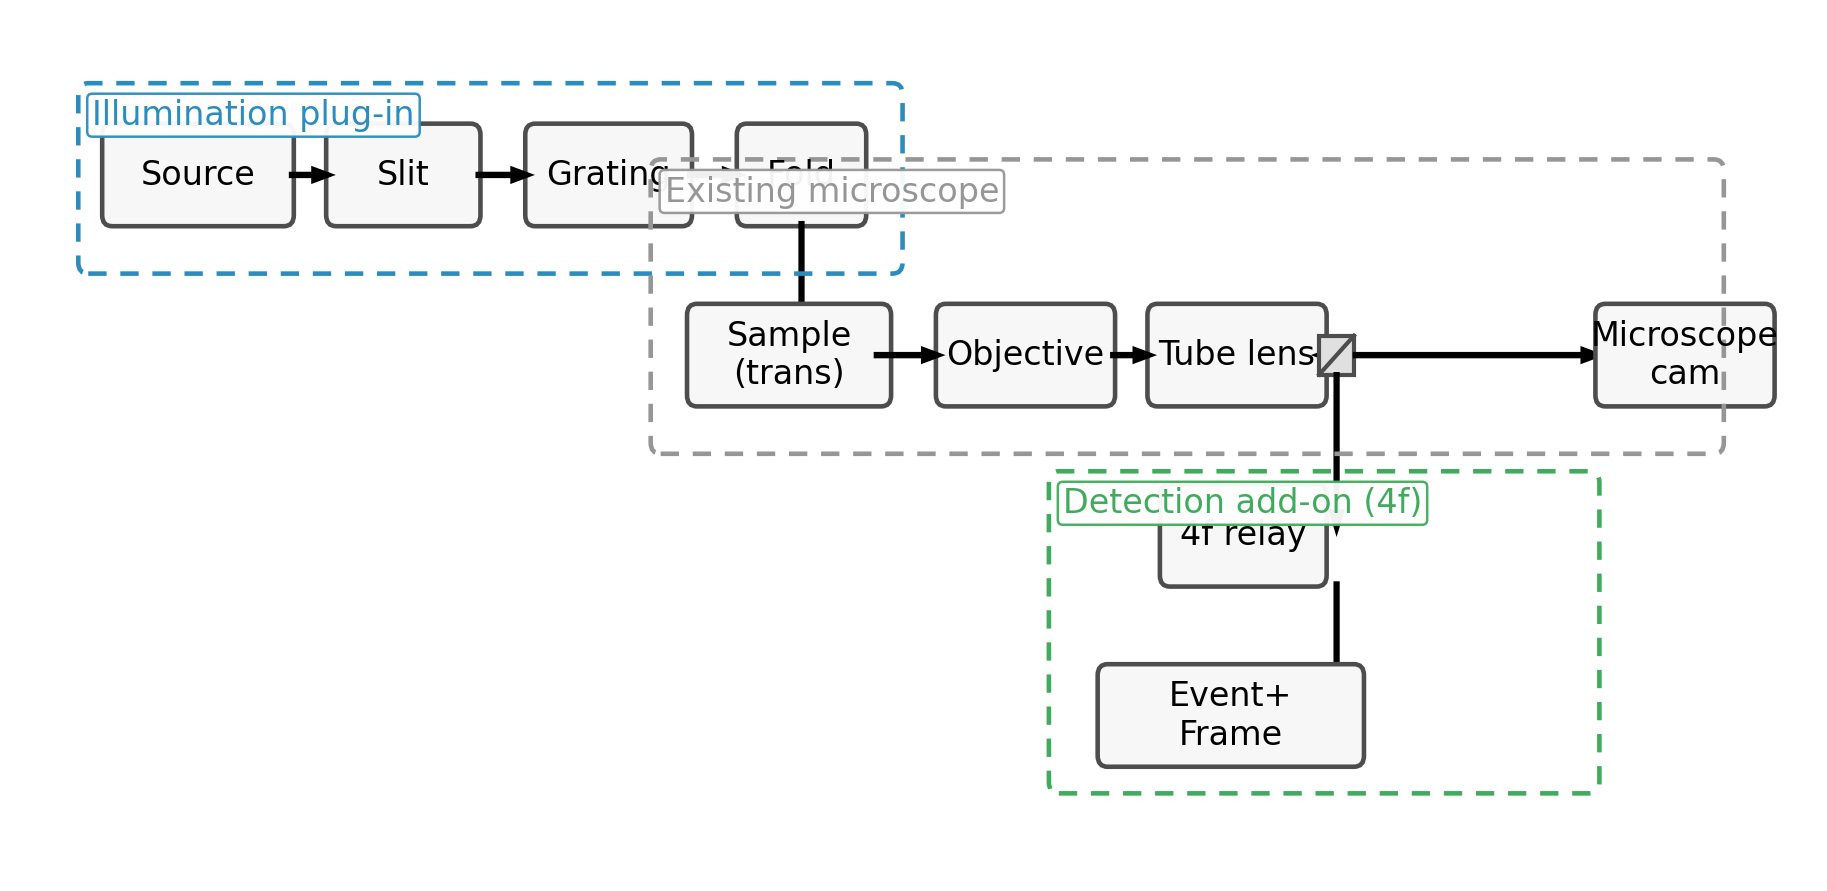
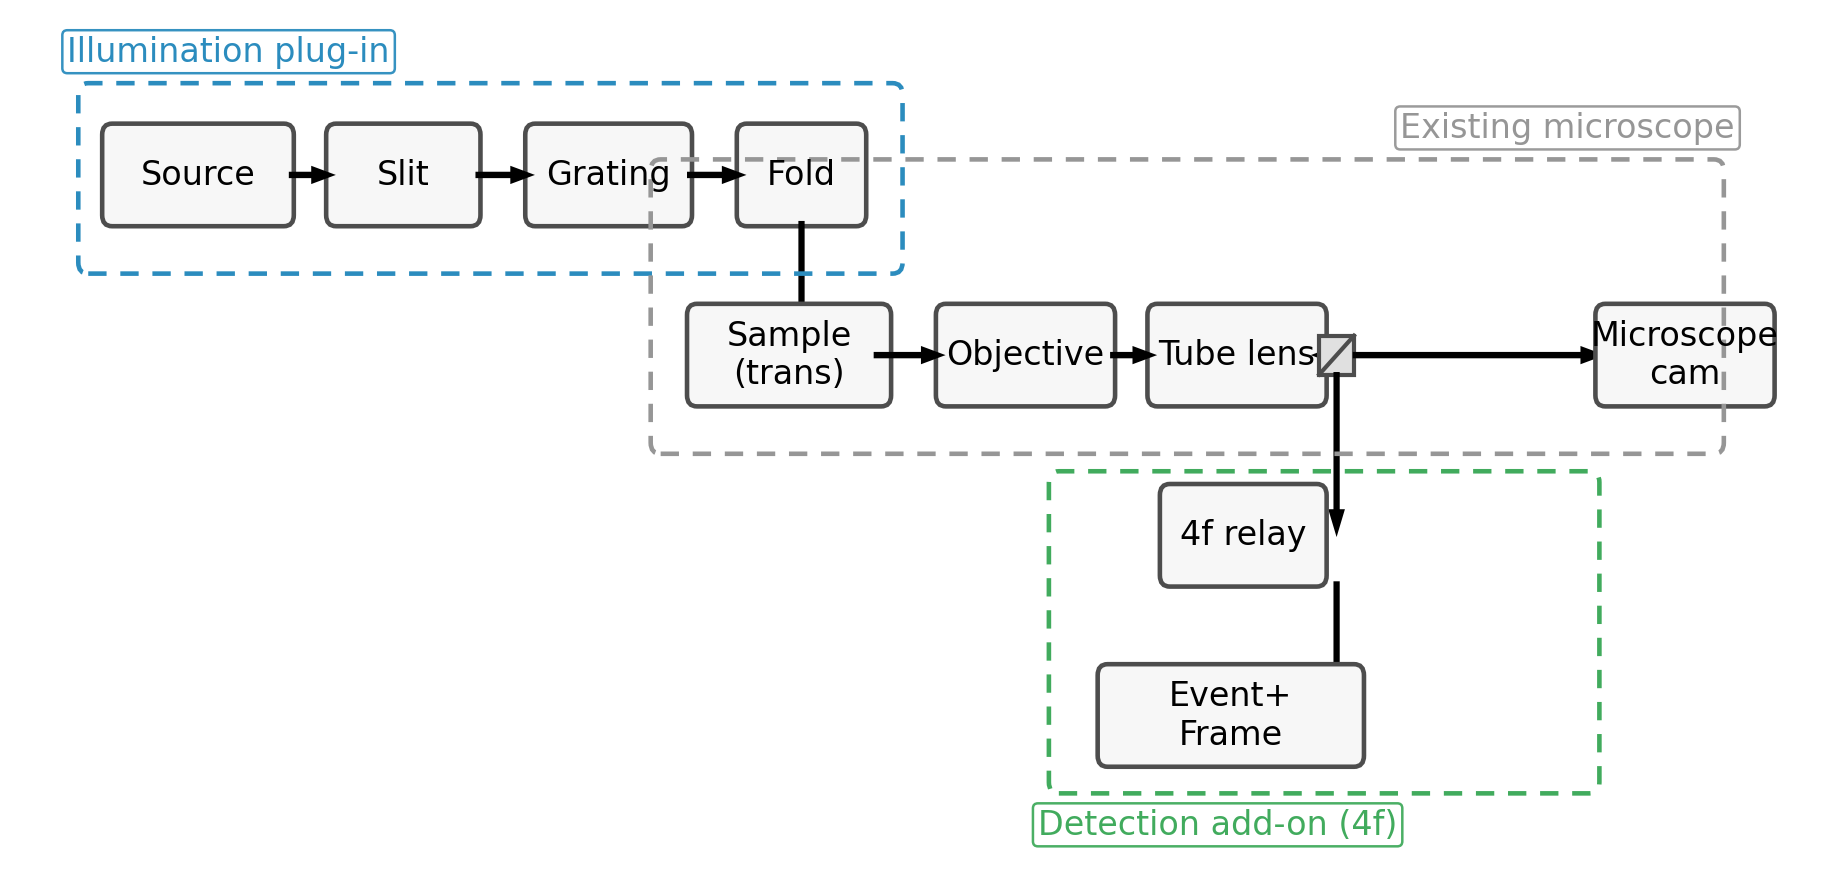
style(figure1): place plug-in labels outside (illum: top-left; microscope: top-right; detection: bottom-left); keep clean spacing and regenerate PDF

diff --git a/publication_code/figure01_system_overview.py b/publication_code/figure01_system_overview.py
@@ -43,16 +43,30 @@ def add_arrow(ax, x0, y0, x1, y1, lw=1.2, color="#000000"):
                             linewidth=lw, edgecolor=color, facecolor=color))
 
 
-def add_plugin_box(ax, x, y, w, h, label, ec="#2b8cbe"):
+def add_plugin_box(ax, x, y, w, h, label, ec="#2b8cbe", label_pos: str = "inside-tl"):
     rect = FancyBboxPatch((x, y), w, h,
                           boxstyle="round,pad=0.012,rounding_size=0.08",
                           linewidth=1.1, edgecolor=ec, facecolor="none",
                           linestyle=(0, (4, 3)))
     ax.add_patch(rect)
-    # Place label inside top-left with a light background to avoid dashed overlap
+
+    # Compute label anchor by position keyword
+    if label_pos == "inside-tl":
+        lx, ly, ha, va = x + 0.1, y + h - 0.1, "left", "top"
+    elif label_pos == "outside-tl":
+        lx, ly, ha, va = x - 0.1, y + h + 0.12, "left", "bottom"
+    elif label_pos == "outside-tr":
+        lx, ly, ha, va = x + w + 0.1, y + h + 0.12, "right", "bottom"
+    elif label_pos == "outside-bl":
+        lx, ly, ha, va = x - 0.1, y - 0.12, "left", "top"
+    elif label_pos == "outside-br":
+        lx, ly, ha, va = x + w + 0.1, y - 0.12, "right", "top"
+    else:
+        lx, ly, ha, va = x + 0.1, y + h - 0.1, "left", "top"
+
     ax.text(
-        x + 0.1, y + h - 0.1, label,
-        fontsize=8, color=ec, ha="left", va="top",
+        lx, ly, label,
+        fontsize=8, color=ec, ha=ha, va=va,
         bbox=dict(boxstyle="round,pad=0.15", facecolor="white", edgecolor=ec, linewidth=0.6, alpha=0.95),
     )
 
@@ -122,12 +136,12 @@ def render(out_path: Path) -> None:
     evt = add_block(ax, (8.6, 0.7), "Event+\nFrame", 2.1)
 
     # Plugin boxes
-    # Illumination plug-in around source->fold
-    add_plugin_box(ax, 0.4, 4.25, 6.6, 1.35, label="Illumination plug-in")
-    # Detection add-on around relay->event
-    add_plugin_box(ax, 8.2, 0.5, 4.4, 2.3, label="Detection add-on (4f)", ec="#41ab5d")
-    # Existing microscope frame around sample->tube lens (+ original camera)
-    add_plugin_box(ax, 5.0, 2.95, 8.6, 2.1, label="Existing microscope", ec="#969696")
+    # Illumination plug-in around source->fold (label outside top-left)
+    add_plugin_box(ax, 0.4, 4.25, 6.6, 1.35, label="Illumination plug-in", label_pos="outside-tl")
+    # Detection add-on around relay->event (label outside bottom-left)
+    add_plugin_box(ax, 8.2, 0.5, 4.4, 2.3, label="Detection add-on (4f)", ec="#41ab5d", label_pos="outside-bl")
+    # Existing microscope frame around sample->tube lens (+ original camera), label outside top-right
+    add_plugin_box(ax, 5.0, 2.95, 8.6, 2.1, label="Existing microscope", ec="#969696", label_pos="outside-tr")
 
     # Keep diagram clean: avoid extra annotations that can overlap
 
